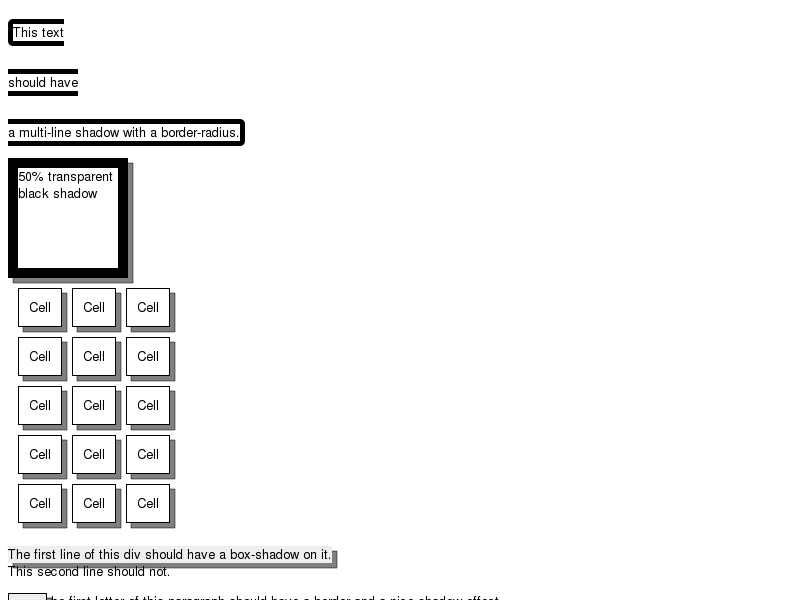
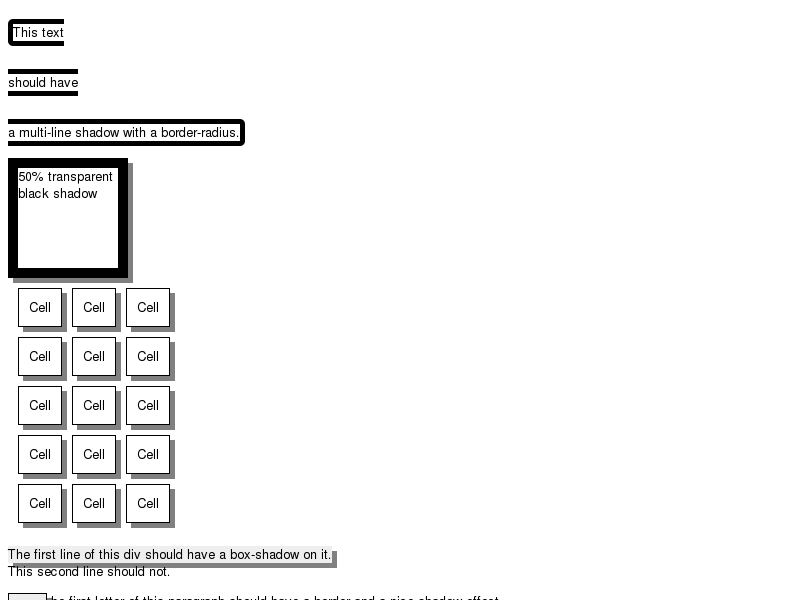
WebCore/ChangeLog:
2009-08-12  Ariya Hidayat  <ariya.hidayat@nokia.com>

        Reviewed by Holger Freyther.

        [Qt] Fix box-shadow painting in r47103. The edge should not be blurry.
        Also optimize by not having to save and restore painter state.

        * platform/graphics/qt/GraphicsContextQt.cpp:
        (WebCore::GraphicsContext::drawRect):
        (WebCore::GraphicsContext::fillRect):

LayoutTests/ChangeLog:

2009-08-12  Ariya Hidayat  <ariya.hidayat@nokia.com>

        Reviewed by Holger Hans Peter Freyther.

        [Qt] Update the pixel tests for shadow edge fix.

        * platform/qt/fast/box-shadow/basic-shadows-expected.checksum:
        * platform/qt/fast/box-shadow/basic-shadows-expected.png:

Identifier: 38706@main
git-svn-id: https://svn.webkit.org/repository/webkit/trunk@47105 268f45cc-cd09-0410-ab3c-d52691b4dbfc

diff --git a/WebCore/platform/graphics/qt/GraphicsContextQt.cpp b/WebCore/platform/graphics/qt/GraphicsContextQt.cpp
@@ -419,12 +419,10 @@ void GraphicsContext::drawRect(const IntRect& rect)
     int shadowBlur;
     Color shadowColor;
     if (textDrawingMode() == cTextFill && getShadow(shadowSize, shadowBlur, shadowColor)) {
-        p->save();
-        p->translate(shadowSize.width(), shadowSize.height());
-        p->setPen(QColor(shadowColor));
-        p->setBrush(QBrush(QColor(shadowColor)));
-        p->drawRect(rect);
-        p->restore();
+        IntRect shadowRect = rect;
+        shadowRect.move(shadowSize.width(), shadowSize.height());
+        shadowRect.inflate(p->pen().widthF());
+        p->fillRect(shadowRect, QColor(shadowColor));
     }
 
     p->drawRect(rect);
@@ -720,12 +718,10 @@ void GraphicsContext::fillRect(const FloatRect& rect, const Color& c)
     Color shadowColor;
     QPainter* p = m_data->p();
     if (textDrawingMode() == cTextFill && getShadow(shadowSize, shadowBlur, shadowColor)) {
-        p->save();
-        p->translate(shadowSize.width(), shadowSize.height());
-        p->setPen(QColor(shadowColor));
-        p->setBrush(QBrush(QColor(shadowColor)));
-        p->drawRect(rect);
-        p->restore();
+        FloatRect shadowRect = rect;
+        shadowRect.move(shadowSize.width(), shadowSize.height());
+        shadowRect.inflate(p->pen().widthF());
+        p->fillRect(shadowRect, QColor(shadowColor));
     }
     p->fillRect(rect, m_data->solidColor);
 }
